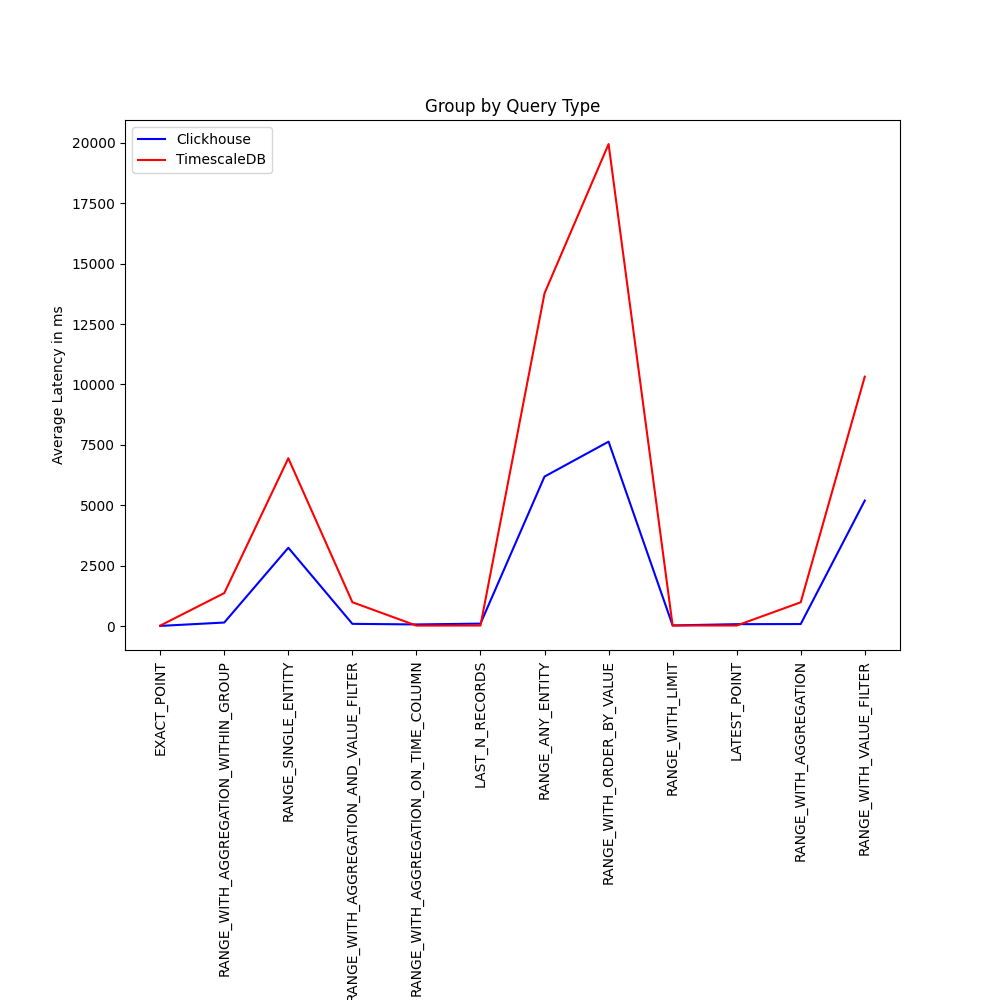
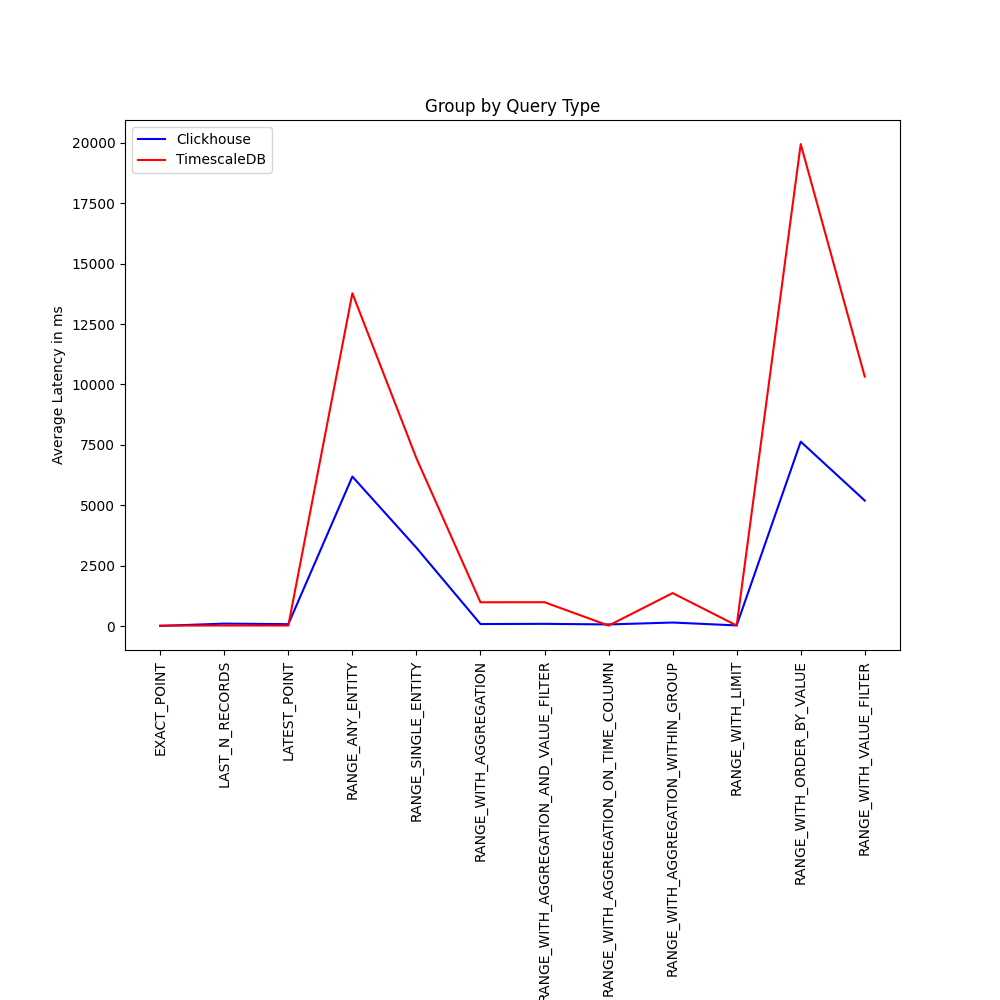
Visualize query type latency every time in the same order in x-axis. Upload updated plots

diff --git a/visualizer.py b/visualizer.py
@@ -6,7 +6,7 @@ import os
 import numpy as np
 
 RESULTS_DIR = "results"
-RUN_DIR = "run5-taxi-selectivity"
+RUN_DIR = "run2-big-taxi"
 RESULTS_FILE = "benchmark_result"
 PLOTS_DIR_NAME = "plots"
 
@@ -156,13 +156,16 @@ def groupByQueryType(json):
         for type in qTypes:
             results_by_qType[type] = mean(getLatenciesForDBAndQueryType(json, db, type)) / 1000000.0
         results_by_db[db] = results_by_qType
-    x = list(results_by_db[dbs[0]].keys())
-    print(max(results_by_db["TimescaleDb"]))
+
+    ts_results = list(sorted(list(results_by_db["TimescaleDb"].items())))
+    ch_results = list(sorted(list(results_by_db["ClickHouse"].items())))
+    x = list(zip(*ts_results))[0]
+    y_ts = list(zip(*ts_results))[1]
+    y_ch = list(zip(*ch_results))[1]
+
     plt.xticks(ticks=range(len(x)), labels=x, rotation=90)
-    y_tsdb = list(results_by_db["TimescaleDb"].values())
-    y_ch = list(results_by_db["ClickHouse"].values())
     plt.plot(x, y_ch, color='blue', label='Clickhouse')
-    plt.plot(x, y_tsdb, color='red', label='TimescaleDB')
+    plt.plot(x, y_ts, color='red', label='TimescaleDB')
     plt.legend(loc="upper left")
     plt.xlabel('Query Type')
     plt.ylabel('Average Latency in ms')
@@ -215,10 +218,10 @@ def main():
         # datasets = getAllValues(json_result, "dataset")
         # for dataset in datasets:
         ###### RUN1, RUN2 and RUN5
-        showLatencies(json_result, "ClickHouse")
-        showLatencies(json_result, "TimescaleDb")
-        visualize_write_percentages(json_result, 1000)
-        visualize_read_only(json_result, 13192591, 1000)
+        # showLatencies(json_result, "ClickHouse")
+        # showLatencies(json_result, "TimescaleDb")
+        # visualize_write_percentages(json_result, 1000)
+        # visualize_read_only(json_result, 13192591, 1000)
         groupByQueryType(json_result)
 
         ###### RUN3
